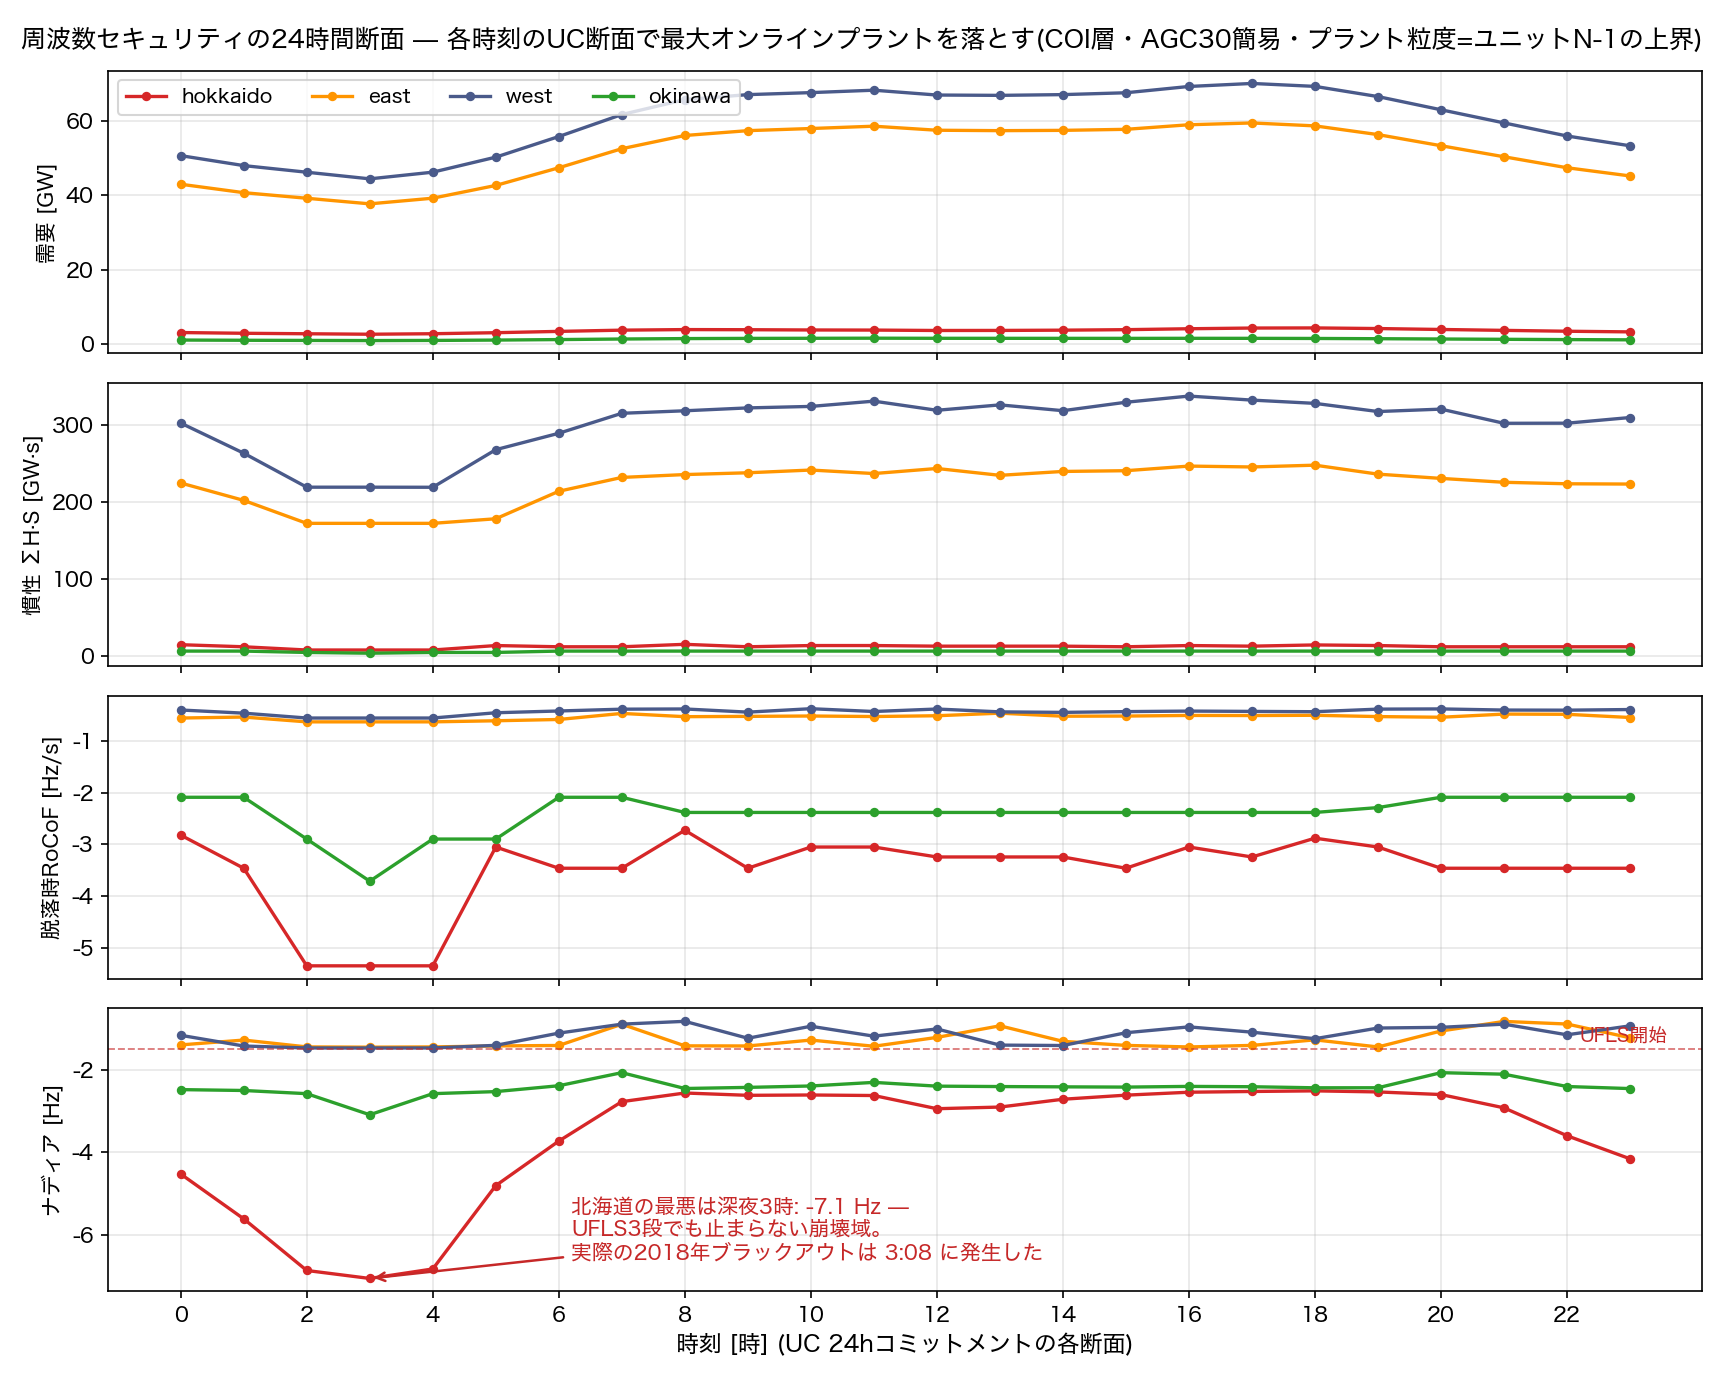
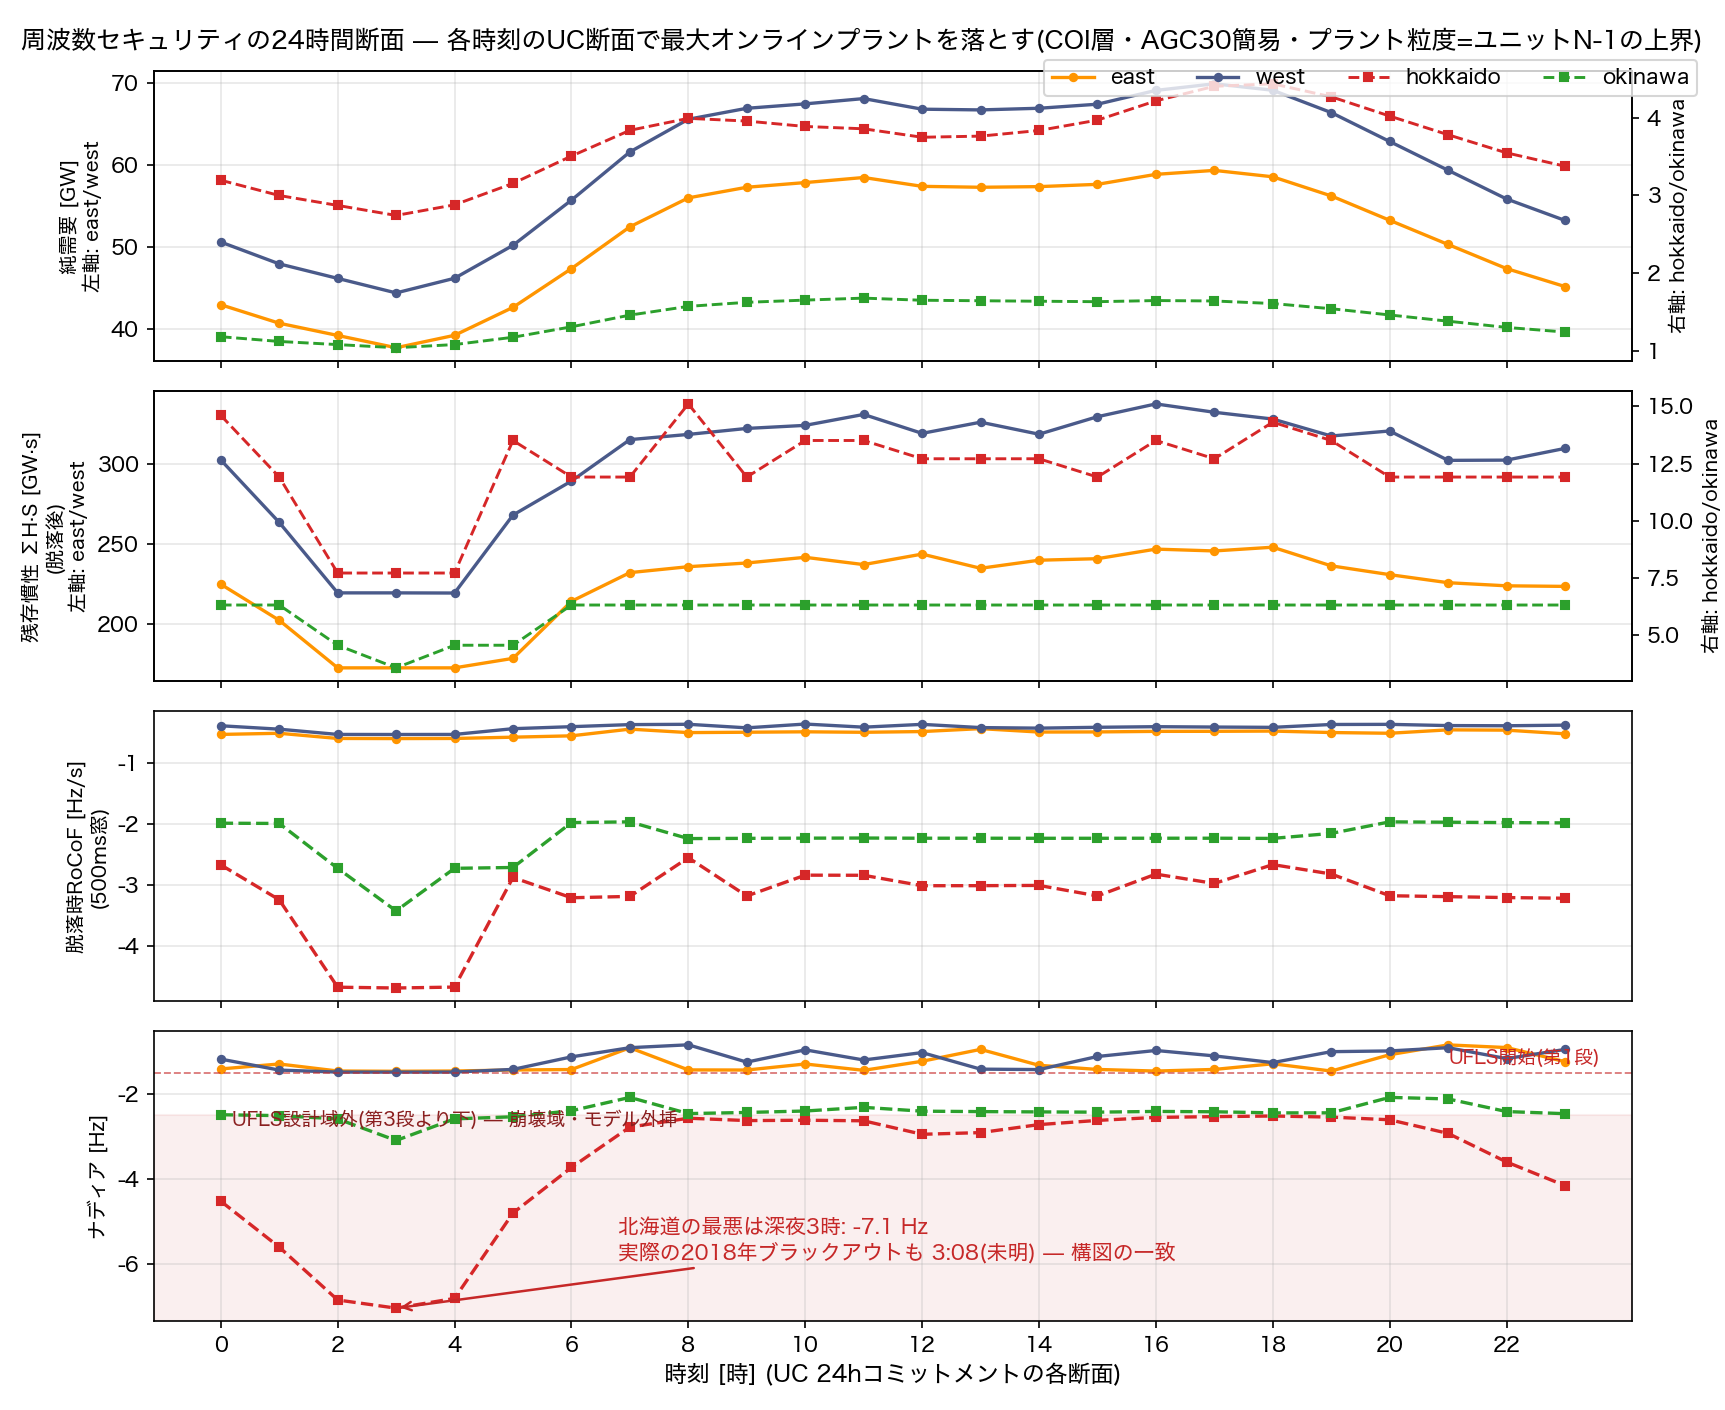
fix(agc): 24h断面図の技術修正 — 需要/慣性を2軸化(小島が潰れる)・RoCoFを500ms窓の計測慣行に・UFLS設計域外を網掛け(オーナー指摘)
Claude-Session: https://claude.ai/code/session_01MJ4cokcxrbBrreVZsP8Qhd

diff --git a/scripts/gen_agc_24h_profile.py b/scripts/gen_agc_24h_profile.py
@@ -74,13 +74,21 @@ def main():
             model = MultiAreaLFC(f0, areas_t, tie, mode="tbc", ufls=True)
             r = model.simulate(Disturbance(area=gen.region, dp_mw=p_mw),
                                t_end=90.0)
+            # RoCoF は計測慣行(リレー・系統計測)に合わせて 500ms 窓で測る。
+            # 解析的初期値 ΔP/2ΣHS·f0 は瞬時値で、窓計測より過大に出る
+            # (オーナー指摘 2026-08-29「RoCoFの測り方」) — 両方帳簿に残す
+            fzero = next(a for a in r.df_hz)      # 単/多エリアとも共通f
+            fcoi = r.df_hz[fzero]
+            W = 5                                  # 0.1s刻み × 5 = 500ms
+            roc_w = float(((fcoi[W:] - fcoi[:-W]) / (0.1 * W)).min())
             rows.append(dict(
                 hour=h,
                 demand_mw=round(sum(float(scn.net_demand_r[rg][h])
                                     for rg in regions), 1),
-                inertia_gws=round((m_tot + 2 * 0) * S_BASE_MVA / 2000.0, 2),
+                inertia_gws=round(m_tot * S_BASE_MVA / 2000.0, 2),
                 largest_mw=round(p_mw, 1), largest=gen.name,
                 rocof_hz_s=round(r.rocof_hz_s, 3),
+                rocof_w500_hz_s=round(roc_w, 3),
                 nadir_hz=round(r.nadir_hz, 3)))
         prof[island] = rows
         worst = min((x for x in rows if x), key=lambda x: x["nadir_hz"])
@@ -89,35 +97,60 @@ def main():
               f"(慣性{worst['inertia_gws']}GW·s, {worst['largest']} "
               f"{worst['largest_mw']:,.0f}MW)")
 
-    # ── 図: 4段(需要・慣性・RoCoF・nadir) × 4島 ──
-    fig, axes = plt.subplots(4, 1, figsize=(11.5, 9.2), dpi=150, sharex=True)
+    # ── 図: 4段 × 4島。需要・慣性はスケール差が大きいので2軸
+    #    (左=east/west・右=hokkaido/okinawa)、RoCoF/ナディアは同一軸で比較 ──
+    fig, axes = plt.subplots(4, 1, figsize=(11.5, 9.4), dpi=150, sharex=True)
     hours = np.arange(24)
-    panels = [("demand_mw", "需要 [GW]", 1e-3),
-              ("inertia_gws", "慣性 ΣH·S [GW·s]", 1.0),
-              ("rocof_hz_s", "脱落時RoCoF [Hz/s]", 1.0),
-              ("nadir_hz", "ナディア [Hz]", 1.0)]
-    for ax, (key, label, scale) in zip(axes, panels):
-        for island in ISLANDS:
-            ys = [x[key] * scale if x else np.nan for x in prof[island]]
-            ax.plot(hours, ys, "o-", ms=3.5, lw=1.6, color=COLOR[island],
-                    label=island)
-        ax.set_ylabel(label, fontsize=10)
+    BIG, SMALL = ("east", "west"), ("hokkaido", "okinawa")
+
+    def series(island, key, scale=1.0):
+        return [x[key] * scale if x else np.nan for x in prof[island]]
+
+    handles = {}
+    for ax, (key, label, scale) in zip(
+            axes[:2], [("demand_mw", "純需要 [GW]", 1e-3),
+                       ("inertia_gws", "残存慣性 ΣH·S [GW·s]\n(脱落後)", 1.0)]):
+        axr = ax.twinx()
+        for island in BIG:
+            h_, = ax.plot(hours, series(island, key, scale), "o-", ms=3.5,
+                          lw=1.6, color=COLOR[island])
+            handles[island] = h_
+        for island in SMALL:
+            h_, = axr.plot(hours, series(island, key, scale), "s--", ms=3.5,
+                           lw=1.4, color=COLOR[island])
+            handles[island] = h_
+        ax.set_ylabel(f"{label}\n左軸: east/west", fontsize=9.5)
+        axr.set_ylabel("右軸: hokkaido/okinawa", fontsize=9.5)
         ax.grid(alpha=0.3)
-    axes[0].legend(fontsize=9.5, ncol=4, loc="upper left")
+    for ax, (key, label) in zip(
+            axes[2:], [("rocof_w500_hz_s", "脱落時RoCoF [Hz/s]\n(500ms窓)"),
+                       ("nadir_hz", "ナディア [Hz]")]):
+        for island in ISLANDS:
+            style = "o-" if island in BIG else "s--"
+            ax.plot(hours, series(island, key), style, ms=3.5, lw=1.6,
+                    color=COLOR[island])
+        ax.set_ylabel(label, fontsize=9.5)
+        ax.grid(alpha=0.3)
+    fig.legend(handles.values(), handles.keys(), ncol=4, fontsize=10,
+               loc="upper right", bbox_to_anchor=(0.99, 0.965))
     axes[3].set_xlabel("時刻 [時] (UC 24hコミットメントの各断面)", fontsize=11)
     axes[3].set_xticks(range(0, 24, 2))
-    # UFLS帯
+    # UFLS帯と設計域外(崩壊域=モデル外挿)の網掛け
     axes[3].axhline(-1.5, color="#C62828", lw=0.9, ls="--", alpha=0.6)
-    axes[3].text(23.6, -1.35, "UFLS開始", ha="right", fontsize=9,
+    axes[3].text(23.6, -1.30, "UFLS開始(第1段)", ha="right", fontsize=9,
                  color="#C62828")
+    ymin = axes[3].get_ylim()[0]
+    axes[3].axhspan(ymin, -2.5, color="#C62828", alpha=0.07, zorder=0)
+    axes[3].text(0.2, -2.75, "UFLS設計域外(第3段より下) — 崩壊域・モデル外挿",
+                 fontsize=9, color="#8A1F1F")
+    axes[3].set_ylim(ymin, axes[3].get_ylim()[1])
     # 北海道の夜間トラフに事実注記
     hn = prof["hokkaido"]
     kmin = min(range(24), key=lambda h: hn[h]["nadir_hz"])
     axes[3].annotate(
-        f"北海道の最悪は深夜{kmin}時: {hn[kmin]['nadir_hz']:.1f} Hz —\n"
-        "UFLS3段でも止まらない崩壊域。\n"
-        "実際の2018年ブラックアウトは 3:08 に発生した",
-        xy=(kmin, hn[kmin]["nadir_hz"]), xytext=(6.2, -6.6), fontsize=10,
+        f"北海道の最悪は深夜{kmin}時: {hn[kmin]['nadir_hz']:.1f} Hz\n"
+        "実際の2018年ブラックアウトも 3:08(未明) — 構図の一致",
+        xy=(kmin, hn[kmin]["nadir_hz"]), xytext=(6.8, -5.9), fontsize=10,
         color="#C62828",
         arrowprops=dict(arrowstyle="->", color="#C62828", lw=1.2))
     fig.suptitle("周波数セキュリティの24時間断面 — 各時刻のUC断面で"
